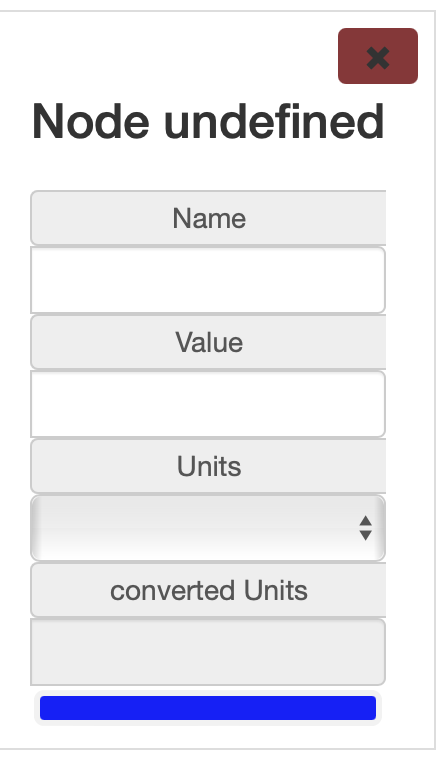
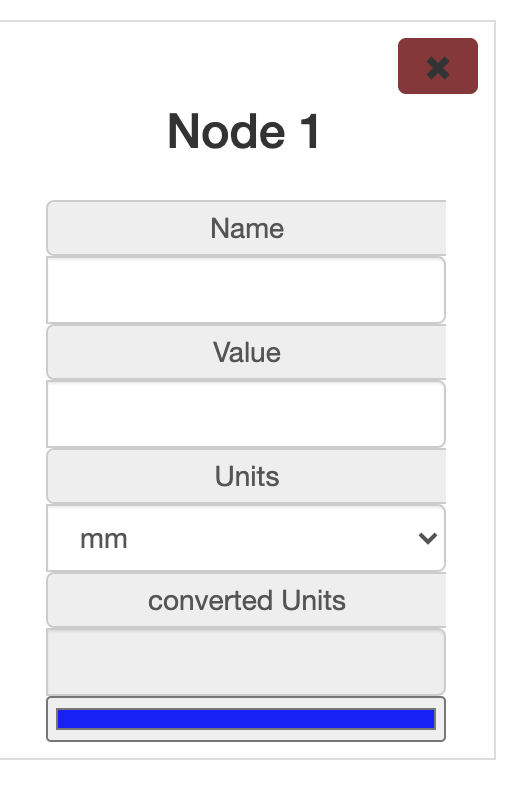
clear labels for sankey nodes

diff --git a/help.html b/help.html
@@ -1,68 +1,65 @@
 <html>
+
 <head>
-	<script src="https://cdnjs.cloudflare.com/ajax/libs/jquery/3.5.0/jquery.min.js" integrity="sha256-xNzN2a4ltkB44Mc/Jz3pT4iU1cmeR0FkXs4pru/JxaQ=" crossorigin="anonymous"></script>
-	<!-- Latest compiled and minified CSS -->
-	<link rel="stylesheet" href="https://stackpath.bootstrapcdn.com/bootstrap/3.4.1/css/bootstrap.min.css" integrity="sha384-HSMxcRTRxnN+Bdg0JdbxYKrThecOKuH5zCYotlSAcp1+c8xmyTe9GYg1l9a69psu" crossorigin="anonymous">
-	<!-- Optional theme -->
-	<link rel="stylesheet" href="https://stackpath.bootstrapcdn.com/bootstrap/3.4.1/css/bootstrap-theme.min.css" integrity="sha384-6pzBo3FDv/PJ8r2KRkGHifhEocL+1X2rVCTTkUfGk7/0pbek5mMa1upzvWbrUbOZ" crossorigin="anonymous">
-	<!-- Latest compiled and minified JavaScript -->
-	<script src="https://stackpath.bootstrapcdn.com/bootstrap/3.4.1/js/bootstrap.min.js" integrity="sha384-aJ21OjlMXNL5UyIl/XNwTMqvzeRMZH2w8c5cRVpzpU8Y5bApTppSuUkhZXN0VxHd" crossorigin="anonymous"></script>
-	<!-- Load plotly.js into the DOM -->
-	<script src='https://cdn.plot.ly/plotly-latest.min.js'></script>
-	<!-- Load color picker -->
-	<link rel="stylesheet" href="styles.css">		
+    <script src="https://cdnjs.cloudflare.com/ajax/libs/jquery/3.5.0/jquery.min.js" integrity="sha256-xNzN2a4ltkB44Mc/Jz3pT4iU1cmeR0FkXs4pru/JxaQ=" crossorigin="anonymous"></script>
+    <!-- Latest compiled and minified CSS -->
+    <link rel="stylesheet" href="https://stackpath.bootstrapcdn.com/bootstrap/3.4.1/css/bootstrap.min.css" integrity="sha384-HSMxcRTRxnN+Bdg0JdbxYKrThecOKuH5zCYotlSAcp1+c8xmyTe9GYg1l9a69psu" crossorigin="anonymous">
+    <!-- Optional theme -->
+    <link rel="stylesheet" href="https://stackpath.bootstrapcdn.com/bootstrap/3.4.1/css/bootstrap-theme.min.css" integrity="sha384-6pzBo3FDv/PJ8r2KRkGHifhEocL+1X2rVCTTkUfGk7/0pbek5mMa1upzvWbrUbOZ" crossorigin="anonymous">
+    <!-- Latest compiled and minified JavaScript -->
+    <script src="https://stackpath.bootstrapcdn.com/bootstrap/3.4.1/js/bootstrap.min.js" integrity="sha384-aJ21OjlMXNL5UyIl/XNwTMqvzeRMZH2w8c5cRVpzpU8Y5bApTppSuUkhZXN0VxHd" crossorigin="anonymous"></script>
+    <!-- Load plotly.js into the DOM -->
+    <script src='https://cdn.plot.ly/plotly-latest.min.js'></script>
+    <!-- Load color picker -->
+    <link rel="stylesheet" href="styles.css">
 </head>
+<style>
+    img {
+        display: block;
+        margin-left: auto;
+        margin-right: auto;
+        margin-bottom: 20em;
+        border-radius: 3%;
+    }
+</style>
 
 <div class="container">
-    <h1 style="color:white;"><center><b>Dynamic Sankey Help Page</b></p>
+    <h1 style="color:white; font-size: 50px;">
+        <center><b>Dynamic Sankey Help Page</b></p>
 </div>
 
 <div class="container3">
-		<button onclick="window.open('mainframe.html')" type="button" class="btn btn-primary">Return to Main</button>
-</div> 
+    <button onclick="window.open('mainframe.html')" type="button" class="btn btn-primary">Return to Sankey</button>
+</div>
 
 <body style="background-color:#333333;">
-	<div class="container2">
-    <h2 style="color:white;"> Step-by-step guide to navigating the Sankey Application</h2>
-    <h3 style="color:white;"> If you wish to access this section–The Help Section–there is a Help button<br>on the main page that will allow you to navigate here.</h3>
+    <div class="container2">
+        <h2 style="color:white; font-size: 40px; text-align: center; margin-bottom: 5em"> Step-by-step guide to navigating the Sankey Application</h2>
+        <h2>Start by giving your Sankey Diagram a title</h2>
 
-    <ol>
-        <li style="color:white;"><b>Start by giving your Sankey Diagram a name</b></li>
-		<br>
-        <img src="images/t.png">
-        <!-- insert a screenshot of the enter the title of your sankey -->
-		<br>
-		<br>
-        <li style="color:white;"><b>Next, you can choose a background to have on your Sankey Diagram</b></li>
-		<br>
-        <img src="images/bckgrndcolor.png">
-        <!-- insert a screenshot of the background color section here-->
-		<br>
-		<br>
-        <li style="color:white;"><b>Afterwards, you can choose what type of Sankey you prefer to have: Nodes or Arrows</b></li>
-		<br>
-        <img src="images/type.png">
-        <!-- insert a screenshot of the type of the Sankey section -->
-		<br>
-		<br>
-        <li style="color:white;"><b>Finally, you can choose whether you wish to have color gradient or not</b></li>
-		<br>
-        <img src="images/gradient.png">
-        <!--Insert a screenshot of the color gradient section-->
-		<br>
-		<br>
-        <li style="color:white;"><b>You can also make your graph more appealing by adding Measurements and/or Primary Units</b></li>
-    </ol>
+        <h2 style="color:white; font-size: 40px; text-align: center; margin-bottom: 5em"> 1. Start by giving your Sankey Diagram a name:</h2>
+        <img src="images/t.png" style="width:800px;height:300px">
 
+        <h2 style="color:white; font-size: 34; text-align: center; margin-bottom: 1em;"> 2. Next, you can choose a background to have on your Sankey Diagram</h2>
+        <img src="images/bckgrndcolor.png" style="width:500px;height:500px">
 
-    <h2 style="color:white;"> Add Sources and Destinations</h2>
-    <ol>
-        <li style="color:white;">In the Add Sources and Destination, click on the button and proceed to insert–<br>The name of your node, the value and the units, as well as the converted units.</li>
-		<br>
-        <img src="images/sourcebtn.png">
-        <img src="images/dest.png">
-    </ol>
+        <h2 style="color:white; font-size: 34; text-align: center; margin-bottom: 1em;"> 3. Afterwards, you can choose what type of Sankey you prefer to have: Nodes or Arrows</h2>
+        <img src="images/type.png" style="width:600px;height:300px">
+
+        <h2 style="color:white; font-size: 34; text-align: center; margin-bottom: 1em;"> 4.Finally, you can choose whether you wish to have color gradient or not</h2>
+        <img src="images/gradient.png" style="width:700px;height:200px">
+
+        <!--<h3 style="color:white; font-size: 30px; text-align: center"> If you wish to access this section–The Help Section–there is a Help button<br>on the main page that will allow you to navigate here.</h3> -->
+
+        <h2 style="color:white; font-size: 34; text-align: center; margin-bottom: 2em;"> 5.You can also make your graph more appealing by adding Measurements and/or Primary Units</h2>
+
+        <h2 style="color:white; font-size: 34; text-align: center; margin-bottom: 1em;"> Add Sources and Destinations</h2>
+
+        style="color:white; font-size: 34; text-align: center; margin-bottom: 1em;">In the Add Sources and Destination, click on the button and proceed to insert–<br>The name of your node, the value and the units, as well as the converted units.</li>
+
+        <img src="images/sourcebtn.png" style="width:500px;height:500px">
+        <img src="images/dest.png" style="width:500px;height:900px">
+
 </body>
-
 
 </html>

diff --git a/sankey.js b/sankey.js
@@ -150,7 +150,7 @@ function endColor()
 function newLabel(numN)
 {
 	nodeLabel[numN]=nodeName[numN]+" "+
-	nodeValue[numN]+nodeUnits[numN];
+	nodeValue[numN]+" "+nodeUnits[numN];
 }
 
 // sets the node name to user input and remakes node label
@@ -242,14 +242,14 @@ function newSource(numL)
 {
 	if(!isNaN(document.getElementById("source"+String(numL)).value))
 	{
-		console.log("true source");
+		//console.log("true source");
 		numSource[numL]=document.getElementById("source"+String(numL)).value;
 	}
 	else
 	{
-		console.log("false source");
+		//console.log("false source");
 		numSource[numL]=String(nodeName.indexOf(document.getElementById("source"+String(numL)).value));
-		console.log(numSource[numL]);
+		//console.log(numSource[numL]);
 	}
 }
 
@@ -258,14 +258,14 @@ function newDest(numL)
 {
 	if(!isNaN(document.getElementById("dest"+String(numL)).value))
 	{
-		console.log("true dest");
+		//console.log("true dest");
 		dest[numL]=document.getElementById("dest"+String(numL)).value;
 	}
 	else
 	{
-		console.log("false dest");
+		//console.log("false dest");
 		dest[numL]=String(nodeName.indexOf(document.getElementById("dest"+String(numL)).value));
-		console.log(dest[numL]);
+		//console.log(dest[numL]);
 	}
 }
 
@@ -279,10 +279,6 @@ function newLinkVal(numL)
 //deletes the node UI from the page and clears the elements of the parallel link arrays
 function deleteLink(numL)
 {
-	if (numL==1)
-	{
-		return;
-	}
 	document.getElementById("Link"+numL).parentNode.removeChild(document.getElementById("Link"+numL));
 	numSource[numL]=null;
 	dest[numL]=null;
@@ -294,10 +290,6 @@ function deleteLink(numL)
 //deletes the link UI from the page and clears the elements of the parallel link arrays
 function deleteINode(numN)
 {
-	if (numN==1)
-	{
-		return;
-	}
 	document.getElementById("Node"+numN).parentNode.removeChild(document.getElementById("Node"+numN));
 	nodeLabel [numN] = null;
 	nodeName[numN] = null;
@@ -311,7 +303,11 @@ function deleteINode(numN)
 function addNode()
 {
     var makeInputs = document.getElementById("makeInputs");
-	
+
+	var xButton = "";
+	if(numNode==1)
+		xButton = "disabled";
+		
 	var newNode = document.createElement("col-md-4");
 	newNode.setAttribute("id", "Node"+numNode);
     newNode.innerHTML = 
@@ -320,7 +316,7 @@ function addNode()
 					"<tbody>"+
 						"<tr id='inputs'>"+
 							"<td style='width:120px' class='text-center'>"+
-								"<DIV align='right'> <button class='btn btn-secondary' onclick='deleteINode("+numNode+")' style='background-color: #8f3236'><span class='glyphicon glyphicon-remove'></span></button></DIV>" +
+								"<DIV align='right'> <button class='btn btn-secondary' onclick='deleteINode("+numNode+")' style='background-color: #8f3236' "+xButton+"><span class='glyphicon glyphicon-remove'></span></button></DIV>" +
 								"<h3 style='margin-top: 5px'>Node "+numNode+"</h3>"+
 								"<div class='input-group'>"+
 									"<span class='input-group-addon'>Name</span>"+
@@ -382,6 +378,10 @@ function addLink()
 {
     var makeLinks = document.getElementById("makeLinks");
 
+	var xButton = "";
+	if(numNode==1)
+		xButton = "disabled";
+
 	var newLink = document.createElement("col-md-4");
 	newLink.setAttribute("id", "Link"+numLink);
     newLink.innerHTML =
@@ -390,7 +390,7 @@ function addLink()
 					"<tbody>"+
 						"<tr id='inputs'>"+
 							"<td style='width:120px' class='text-center'>"+
-								"<DIV align='right'> <button class='btn btn-secondary' onclick='deleteLink("+numLink+")' style='background-color: #8f3236'><span class='glyphicon glyphicon-remove'></span></button></DIV>" +
+								"<DIV align='right'> <button class='btn btn-secondary' onclick='deleteLink("+numLink+")' style='background-color: #8f3236' "+xButton+"><span class='glyphicon glyphicon-remove'></span></button></DIV>" +
 								"<h3 style='margin-top: 5px'>Link "+numLink+"</h3>"+
 								"<div class='input-group'>"+
 									"<span class='input-group-addon'>Source #</span>"+
@@ -508,10 +508,7 @@ function buildSvgArrows()
 			endNodeColor = nodeColor[i+k];
 		}
         const height = rects[i].getAttribute('height');
-		//const defaultY = rects[i].getAttribute('y');
-		//const colorG = rects[i].getAttribute('fill');
-
-        //rects[i].setAttribute('y', `${defaultY}`);
+		
         rects[i].setAttribute('style', `width: ${height*.25}px; height: ${height}px; clip-path:  ${arrowShape}; 
          stroke-width: 0.5; stroke: rgb(255, 255, 255); stroke-opacity: 0.5; fill: ${endNodeColor}; fill-opacity: ${arrowOpacity};`);
       }
@@ -551,6 +548,18 @@ function addGradientElement()
 		}
 	}
   }
+
+  function visableNodeLabels() 
+{
+	const nodeSpot = document.getElementsByClassName('node-label');
+	for (let i = 0; i < nodeSpot.length; i++) 
+	{
+		nodeSpot[i].setAttribute('style', "cursor: default; fill: rgb(68, 68, 68);"+
+		 "text-shadow: rgb(255, 255, 255) -2px 2px 2px,rgb(255, 255, 255) 2px 2px 2px,"+
+		 "rgb(255, 255, 255) 2px -2px 2px, rgb(255, 255, 255) -2px -2px 2px; font-family:"+
+		"'Open Sans', verdana, arial, sans-serif; font-size: 15px; fill-opacity: 1;");
+	}
+}
 
   //downloads the sankey
 function downloadSankey() 
@@ -620,14 +629,12 @@ function renderSankey()
 
     var data = [{
     type: "sankey",
-        //arrangement: "snap",
+        arrangement: "freeform",
 		valuesuffix: primaryUnit,
         node:{
 			label: nodeLabel,
 			color: tempNodeColor,
-           // x: [0.2, 0.2, 0.5, 0.7, 0.3, 0.5],
-           // y: [0.7, 0.5, 0.2, 0.4, 0.2, 0.3],
-            pad:10}, // 10 Pixels
+            pad:45}, 
         link: {
             source: numSource,
             target: dest,
@@ -653,8 +660,18 @@ function renderSankey()
 
 		var myPlot = document.getElementById('myDiv');
 		myPlot.on('plotly_afterplot', function(){
+			visableNodeLabels();
 			addGradientElement();
 		});
 	}
+	else
+	{
+		var myPlot = document.getElementById('myDiv');
+		myPlot.on('plotly_afterplot', function(){
+			visableNodeLabels();
+		});
+	}
+	visableNodeLabels();
+	
 	sankeyIsRendered = true;
 }

diff --git a/mainframe.html b/mainframe.html
@@ -100,7 +100,7 @@
 	<br>
 
 	<!--<script> makeSankey(); </script> -->
-	<div id='myDiv' style="width:100%;height:500px;"></div>
+	<div id='myDiv' style="width:100%;height:750px;"></div>
 	<script src='sankey.js'></script>
 	<script src="node_modules/save-svg-as-png/lib/saveSvgAsPng.js"></script>
 </body>
